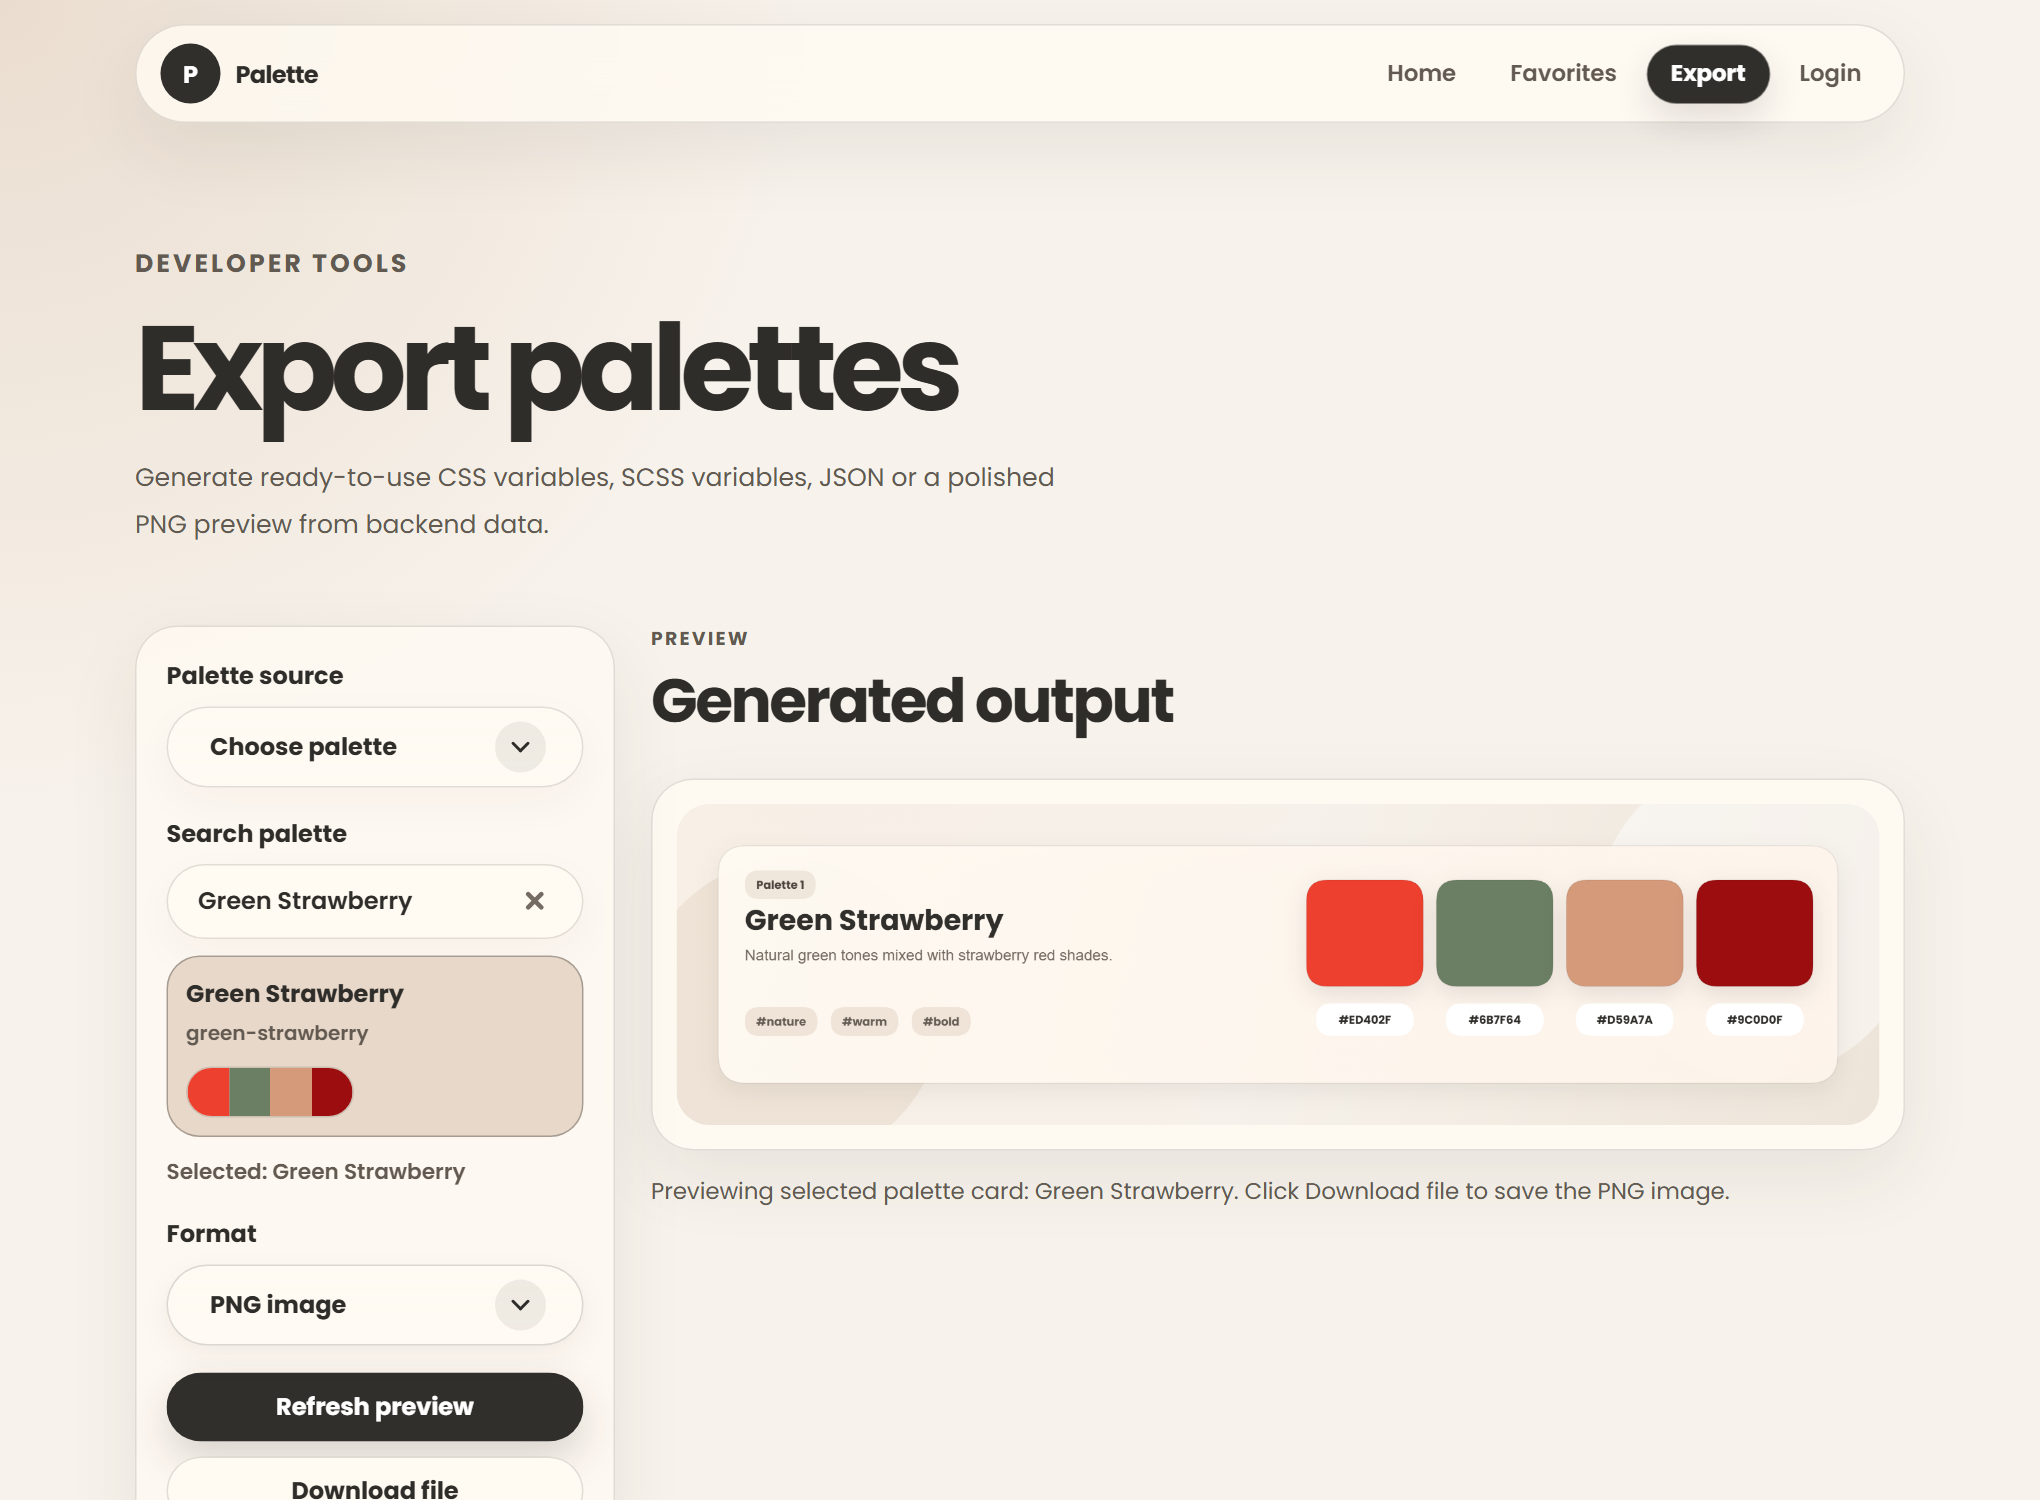
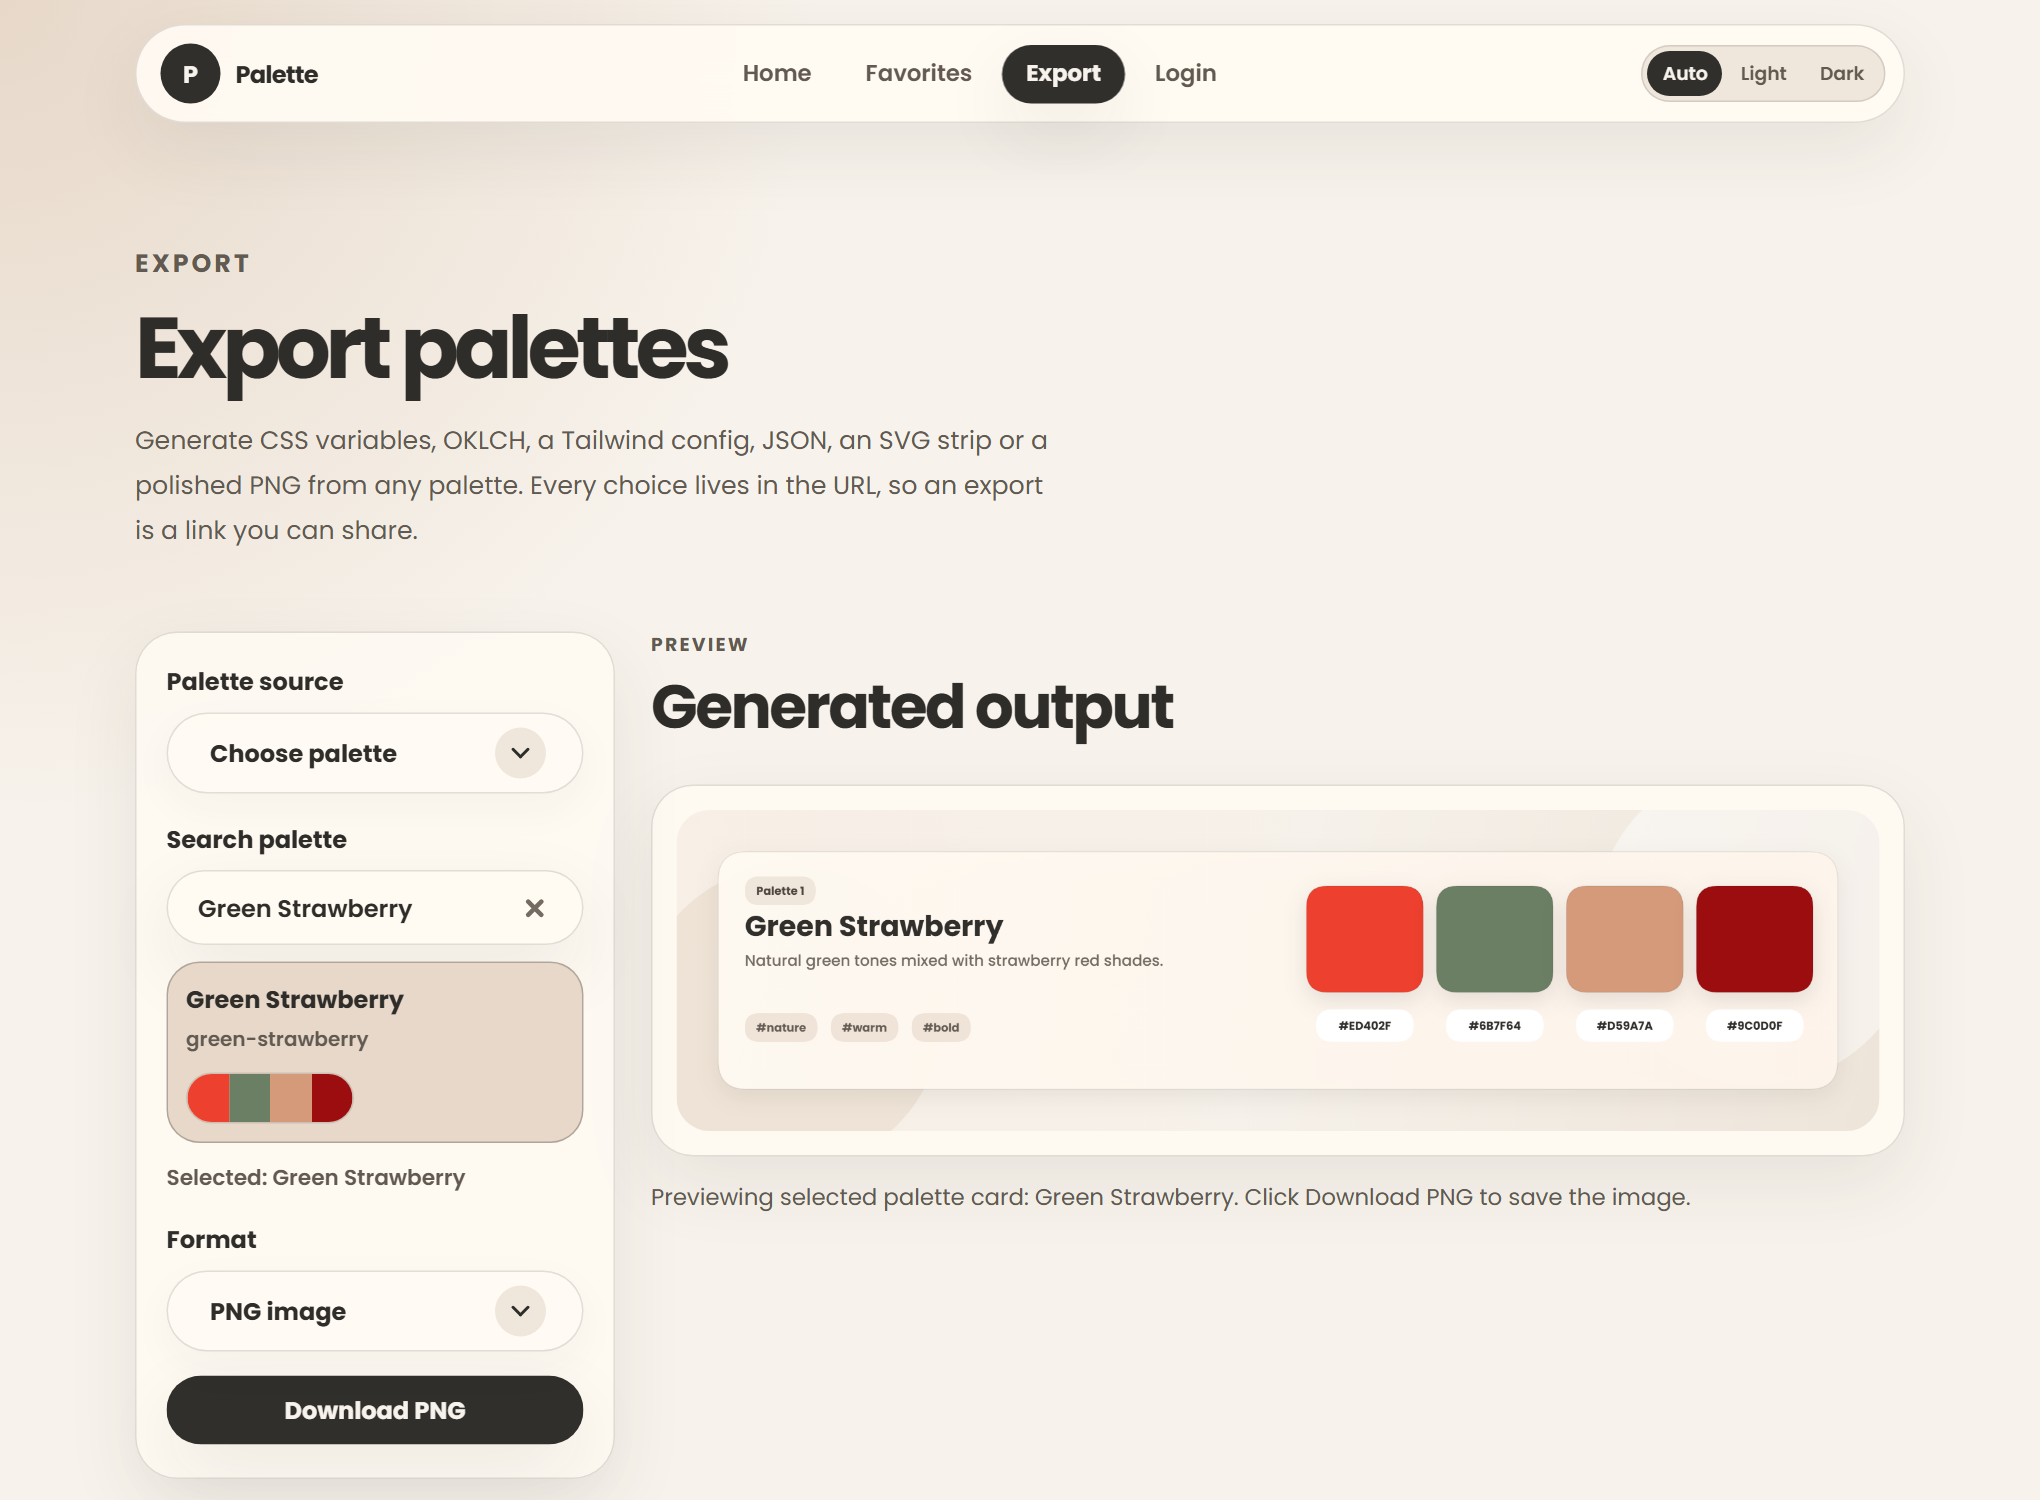
docs: regenerate README screenshots for v5.0 and add the palette page
Recaptured home, admin and export against a running v5.0 stack (the hero and
footer now read v5.0, and Home is the community feed), and added a palette-page
shot — the swatch grid, the colour-vision simulation control, fork/report and
the contrast matrix — as the featured screenshot. The capture spec gains a
`palette` test and selects the PNG export format straight from the URL
(?format=png), since the format is linkable now and its dropdown option sits
under the footer at the capture viewport.

diff --git a/frontend-react/e2e/screenshots/capture.spec.ts b/frontend-react/e2e/screenshots/capture.spec.ts
@@ -53,8 +53,23 @@ test("home", async ({ page }) => {
   await page.screenshot({ path: path.join(OUT, "home.png") });
 });
 
+test("palette", async ({ page }) => {
+  // The palette page is the heart of v5.0: the swatch grid, the colour-vision control, the
+  // contrast matrix and the fork/report actions. Reached from the feed so the slug is not
+  // hardcoded — the first card's link lands on /u/:handle/:slug.
+  await page.goto("/", { waitUntil: "networkidle" });
+  await page.getByRole("article").first().getByRole("link").first().click();
+  await expect(page.getByRole("heading", { level: 1 })).toBeVisible();
+  await expect(page.getByRole("button", { name: /^Copy #/ }).first()).toBeVisible();
+  await settle(page);
+  await page.screenshot({ path: path.join(OUT, "palette.png") });
+});
+
 test("export", async ({ page }) => {
-  await page.goto("/export", { waitUntil: "networkidle" });
+  // PNG format straight from the URL — export state is linkable in v5.0, so this avoids reaching
+  // for the format dropdown (whose last option sits under the footer at this viewport). The
+  // caption promises "a selected palette with the PNG preview".
+  await page.goto("/export?format=png", { waitUntil: "networkidle" });
 
   // A picked palette with its preview rendered — an empty export page shows nothing worth
   // putting in a README. The field is "Search palette", not the home page's search box.
@@ -63,12 +78,6 @@ test("export", async ({ page }) => {
     .getByRole("button", { name: /Green Strawberry/i })
     .first()
     .click();
-  await expect(page.getByText(/Green Strawberry/).first()).toBeVisible();
-
-  // PNG, not the default CSS variables: the caption promises "a selected palette with the PNG
-  // preview", and the code output is already visible on the page in every other form.
-  await page.getByRole("button", { name: /format/i }).click();
-  await page.getByRole("option", { name: "PNG image" }).click();
   await expect(
     page.getByRole("img", { name: /palette card|preview/i }).first(),
   ).toBeVisible();

diff --git a/README.md b/README.md
@@ -24,8 +24,10 @@ Cloudflare + Caddy, auto-deployed on every green build to `main`. Full release h
 
 ## Screenshots
 
-| Home — browse & filter                                                       | Admin — colour-row editor                                                           | Export — PNG preview                                                      |
-| ---------------------------------------------------------------------------- | ----------------------------------------------------------------------------------- | ------------------------------------------------------------------------- |
+![Palette page: the swatch grid with per-colour values, a colour-vision simulation control, fork/report actions and the WCAG contrast matrix](docs/assets/palette.png)
+
+| Home — the community feed                                                   | Admin — colour-row editor                                                           | Export — PNG preview                                                      |
+| --------------------------------------------------------------------------- | ----------------------------------------------------------------------------------- | ------------------------------------------------------------------------- |
 | ![Home page: hero, search field and tag filter chips](docs/assets/home.png) | ![Admin panel: dynamic HEX-row colour editor with tag chips](docs/assets/admin.png) | ![Export page: selected palette with PNG preview](docs/assets/export.png) |
 
 ![Demo: live search filtering the palette grid down to matching palettes](docs/assets/demo.gif)
